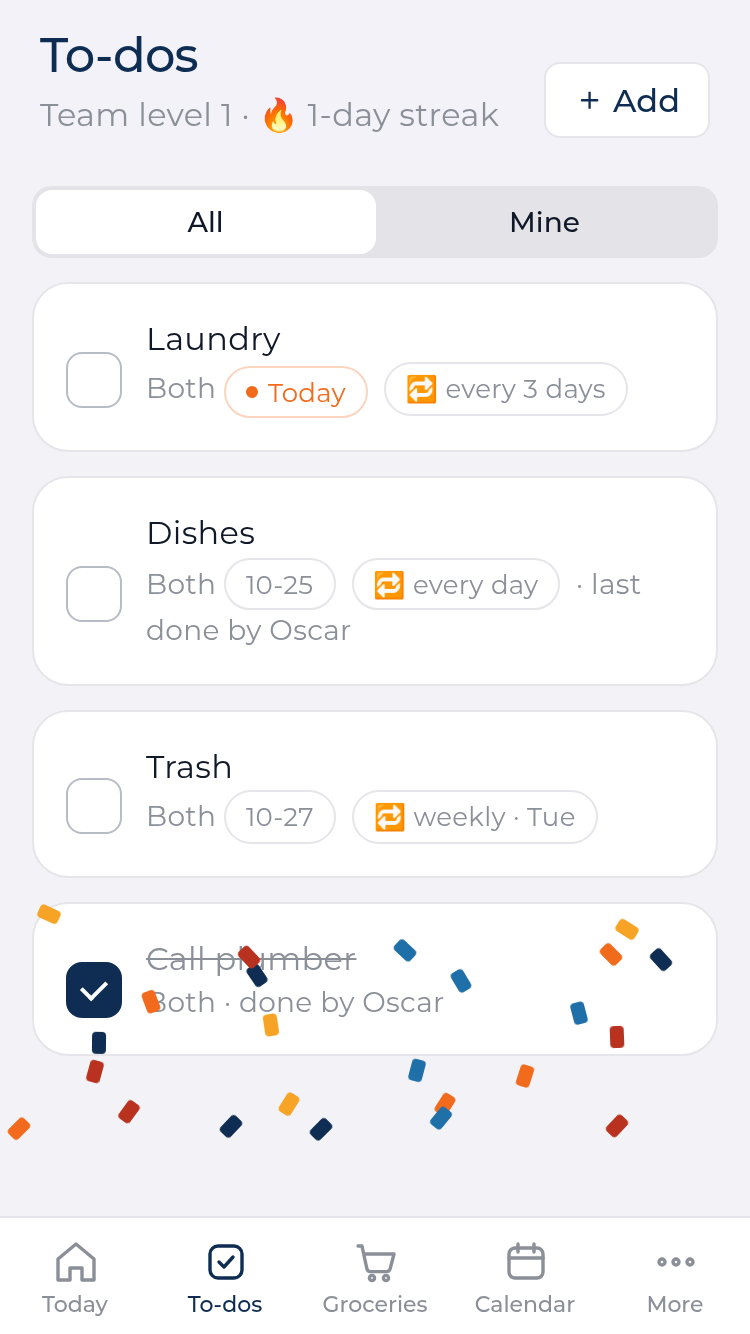
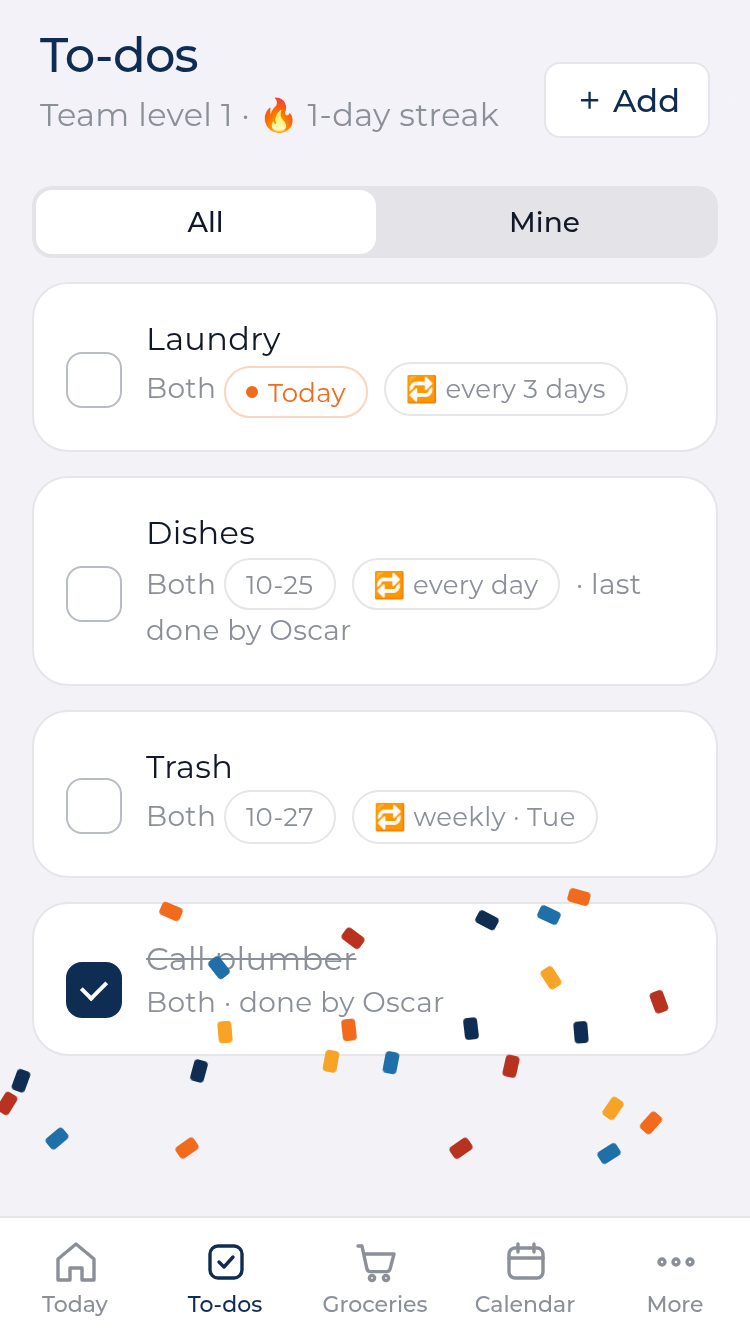
v27: baby logs save reliably (clear validation messages instead of silent no-op, milk/amount-only feedings allowed, close fast, double-tap guard, error toast); remove remaining await-before-UI hangs app-wide

diff --git a/index.html b/index.html
@@ -48,7 +48,7 @@ img.ph{width:100%;max-height:260px;object-fit:cover;border-radius:14px;margin-to
 .tgl{gap:12px}
 #fcat{overflow-x:auto;-webkit-overflow-scrolling:touch;scrollbar-width:none}#fcat button{flex:0 0 auto;padding:7px 12px}
 .sheet>div>div>.row:last-child{position:static;flex-wrap:nowrap;margin-bottom:0}.sheet label{display:block;margin:14px 0 6px;font-size:14px;color:var(--m)}
-.pop{position:fixed;left:50%;top:40%;transform:translate(-50%,-50%);font-size:28px;font-weight:500;color:var(--g);z-index:30;pointer-events:none;animation:pop 1.1s ease-out forwards}
+.toast{position:fixed;left:12px;right:12px;bottom:84px;background:#c62828;color:#fff;padding:12px 14px;border-radius:12px;z-index:60;font-size:15px;box-shadow:0 4px 16px #0003}.shmsg{color:#c62828;font-size:14px;margin-top:10px;min-height:0}.pop{position:fixed;left:50%;top:40%;transform:translate(-50%,-50%);font-size:28px;font-weight:500;color:var(--g);z-index:30;pointer-events:none;animation:pop 1.1s ease-out forwards}
 @keyframes pop{0%{opacity:0;transform:translate(-50%,-30%) scale(.6)}25%{opacity:1;transform:translate(-50%,-50%) scale(1.15)}100%{opacity:0;transform:translate(-50%,-140%) scale(1)}}
 .conf{position:fixed;top:-10px;width:7px;height:11px;border-radius:2px;z-index:29;animation:fall 1.6s linear forwards}
 @keyframes fall{to{transform:translateY(105vh) rotate(720deg)}}
@@ -282,7 +282,10 @@ function vGame(){const t=stats();
  <p class="sub">Signed in as ${esc(auth.currentUser?.email)} · <a href="#" id="so2">Sign out</a></p></div>`}
 // ---------- sheets ----------
 function sheet(html,onSave){$('#sheet').innerHTML=`<div class="sheet"><div>${html}<div class="row" style="margin-top:14px"><button class="s" id="shX">Cancel</button>${onSave?'<button id="shOk">Save</button>':''}</div></div></div>`;
- $('#shX').onclick=close;$('.sheet').onclick=e=>{if(e.target.classList.contains('sheet'))close()};if(onSave)$('#shOk').onclick=async()=>{const b=$('#shOk');if(b.disabled)return;b.disabled=true;let r;try{r=await Promise.race([Promise.resolve(onSave()),new Promise(z=>setTimeout(()=>z('bg'),1500))])}catch(e){alert("Couldn't save: "+(e.message||e));r=false}b.disabled=false;if(r!==false)close()}}
+ $('#shX').onclick=close;$('.sheet').onclick=e=>{if(e.target.classList.contains('sheet'))close()};if(onSave){$('#shOk').parentNode.insertAdjacentHTML('beforebegin','<div class="shmsg" id="shMsg" role="alert"></div>');$('#shOk').onclick=async()=>{const b=$('#shOk');if(!b||b.disabled)return;b.disabled=true;b.textContent='Saving…';$('#shMsg').textContent='';let r,p;
+ try{p=Promise.resolve(onSave());p.catch(e=>toast("Couldn't save: "+(e.message||e)));r=await Promise.race([p,new Promise(z=>setTimeout(()=>z('bg'),1500))])}catch(e){toast("Couldn't save: "+(e.message||e));r=null}
+ if(r===false||typeof r==='string'||r===null){if(b.isConnected){b.disabled=false;b.textContent='Save';if(r!==null)$('#shMsg').textContent=typeof r==='string'?r:'Something is missing. Please fill in the fields above.'}return}close()}}}
+function toast(m){document.querySelectorAll('.toast').forEach(x=>x.remove());const e=document.createElement('div');e.className='toast';e.setAttribute('role','alert');e.textContent=m;e.onclick=()=>e.remove();document.body.append(e);setTimeout(()=>e.remove(),6000)}
 const close=()=>$('#sheet').innerHTML='',val=id=>$('#'+id).value.trim();
 const whoSel=v=>`<select id="fw">${['oscar','wife','both'].map(k=>`<option value="${k}" ${v===k?'selected':''}>${k==='both'?'Both':esc(nm(k))}</option>`).join('')}</select>`;
 function editTodo(t={}){const r=t.rep||null,rk=repKey(r);sheet(`<h2>${t.id?'Edit':'New'} to-do</h2>${t.id?'':`<label>Quick add a repeating chore</label><div style="display:flex;flex-wrap:wrap;gap:6px">${TPL.map((x,i)=>`<button class="s n sm" data-tpl="${i}" style="padding:6px 10px;font-size:13px">🔁 ${esc(x[0])}</button>`).join('')}</div>`}
@@ -671,7 +674,7 @@ const nu=u=>String(u||'ea').trim().toLowerCase().replace(/\.$/,'');
 function conv(q,from,to){from=nu(from);to=nu(to);if(from===to)return q;const a=UG[from],b=UG[to];if(a&&b&&a[0]===b[0])return q*a[1]/b[1];return null}
 function findStock(n){const k=gkey(n);if(!k)return null;const L=S.items;return L.find(i=>gkey(i.name)===k)||L.filter(i=>{const x=gkey(i.name);return x.includes(k)||k.includes(x)}).sort((a,b)=>itemStock(b)-itemStock(a))[0]||null}
 const ucost=i=>i?(unitCost(i)||+i.ucost||0):0;
-const fw=p=>{Promise.resolve(p).catch(e=>alert("Couldn't save: "+(e.message||e)));return p};
+const fw=p=>{Promise.resolve(p).catch(e=>toast("Couldn't save: "+(e.message||e)));return p};
 const r2=n=>Math.round(n*100)/100;
 function cookList(){return `<datalist id="stockdl">${S.items.map(i=>`<option value="${esc(i.name)}">`).join('')}</datalist><datalist id="mealdl">${S.meals.map(m=>`<option value="${esc(m.name)}">`).join('')}</datalist>`}
 function ingRow(g={}){return `<div class="row ingr" style="gap:6px;margin-top:6px"><input class="ign" list="stockdl" value="${esc(g.name||'')}" placeholder="Ingredient" style="flex:3;min-width:0"><input class="igq" type="number" inputmode="decimal" value="${g.qty??''}" placeholder="Qty" style="flex:1;min-width:0"><input class="igu" value="${esc(g.unit||'')}" placeholder="unit" style="flex:1;min-width:0"><button class="d n igx" style="padding:6px 10px">✕</button></div>`}
@@ -802,29 +805,29 @@ function feedSheet(b){let food='',how='',cat='Fruit';const BF=window.BABY_FOODS|
  <div class="row"><div><label>Amount</label><input id="famt" type="number" inputmode="decimal" placeholder="optional"></div><div><label>Unit</label><select id="funit">${['oz','tbsp','jar','pouch','pieces','ml','min'].map(u=>`<option>${u}</option>`).join('')}</select></div><div><label>Time</label><input id="ftime" type="time" value="${nowHM()}"></div></div>
  <label>How did it go?</label><div class="seg" id="fhow">${['loved','ok','refused'].map(h=>`<button data-h="${h}">${h[0].toUpperCase()+h.slice(1)}</button>`).join('')}</div>
  <label>Notes</label><input id="fnote" placeholder="optional"><label class="chkrow"><input type="checkbox" id="fstock" checked><span>Take 1 from baby food stock if we have it</span></label>`,
- async()=>{food=val('ffood');if(!food)return false;const bb=bPick(b),at=atFrom($('#ftime').value),first=!triedBefore(bb,food,at),al=allergenOf(food);
-  await save('blog',{id:uid(),baby:bb.id,kind:'feed',food,amt:+val('famt')||0,unit:$('#funit').value,how,notes:val('fnote'),first,allergen:al,fruit:isFruit(food),at,by:S.me});
-  if($('#fstock').checked){const i=S.items.find(i=>i.baby&&itemStock(i)>0&&(gkey(i.name).includes(gkey(food))||gkey(food).includes(gkey(i.name))));if(i)await logQty(i,'used',1)}
-  celebrate(first?'First time: '+food:'+'+P.feed+' pts')});
+ ()=>{food=val('ffood');if(!food&&(cat==='Milk'||val('famt')))food=cat==='Milk'?'Milk':cat;if(!food){$('#ffood').focus();return 'Pick a food above or type one in the Food box.'}const bb=bPick(b),at=atFrom($('#ftime').value),first=!triedBefore(bb,food,at),al=allergenOf(food),useStock=$('#fstock')&&$('#fstock').checked;
+  const pr=fw(save('blog',{id:uid(),baby:bb.id,kind:'feed',food,amt:+val('famt')||0,unit:$('#funit').value,how,notes:val('fnote'),first,allergen:al,fruit:isFruit(food),at,by:S.me}));
+  if(useStock){try{const i=S.items.find(i=>i.baby&&itemStock(i)>0&&(gkey(i.name).includes(gkey(food))||gkey(food).includes(gkey(i.name))));if(i)fw(logQty(i,'used',1))}catch(e){toast("Saved the feeding, but couldn't update stock: "+(e.message||e))}}
+  setTimeout(()=>celebrate(first?'First time: '+food:'+'+P.feed+' pts'),50);return pr});
  const info=()=>{const f=$('#ffood').value.trim(),bb=bPick(b);if(!f){$('#finfo').textContent='';return}const fi=!triedBefore(bb,f,Date.now()),al=allergenOf(f);
   $('#finfo').innerHTML=(fi?'<span class="pill">First time</span> ':'')+(al?`<span class="pill hi">Common allergen: ${al}</span> Watch for hives, swelling or vomiting for about 2 hours.`:'')};
  const chips=()=>{$('#fchips').innerHTML=(BF[cat]||[]).map(f=>`<button class="mchip n" data-f="${esc(f)}">${esc(f)}</button>`).join('');$('#fchips').querySelectorAll('[data-f]').forEach(x=>x.onclick=()=>{$('#ffood').value=x.dataset.f;if(cat==='Milk')$('#funit').value='oz';else if(cat==='Pouches')$('#funit').value='pouch';info()})};
  $('#fcat').querySelectorAll('button').forEach(x=>x.onclick=()=>{cat=x.dataset.c;$('#fcat').querySelectorAll('button').forEach(y=>y.classList.toggle('on',y===x));chips()});chips();
  $('#fhow').querySelectorAll('button').forEach(x=>x.onclick=()=>{how=x.dataset.h;$('#fhow').querySelectorAll('button').forEach(y=>y.classList.toggle('on',y===x))});$('#ffood').oninput=info}
 function diaperSheet(b){sheet(`<h2>Diaper</h2>${bWho(b)}<label>Time</label><input id="dtime" type="time" value="${nowHM()}"><div class="bgrid" style="margin-top:12px">${['Wet','Dirty','Both'].map(t=>`<button data-dt="${t}">${t}</button>`).join('')}</div>`);
- document.querySelectorAll('[data-dt]').forEach(x=>x.onclick=async()=>{const bb=bPick(b);await save('blog',{id:uid(),baby:bb.id,kind:'diaper',type:x.dataset.dt.toLowerCase(),at:atFrom($('#dtime').value),by:S.me});close();celebrate('+1 pt')})}
+ document.querySelectorAll('[data-dt]').forEach(x=>x.onclick=()=>{if(x.disabled)return;document.querySelectorAll('[data-dt]').forEach(y=>y.disabled=true);const bb=bPick(b),at=atFrom($('#dtime').value);fw(save('blog',{id:uid(),baby:bb.id,kind:'diaper',type:x.dataset.dt.toLowerCase(),at,by:S.me}));close();celebrate('+1 pt')})}
 function medSheet(b){const recent=[...new Set(S.blog.filter(x=>x.kind==='med').sort((x,y)=>y.at-x.at).map(x=>x.name+'|'+(x.dose||'')))].slice(0,5);
  sheet(`<h2>Medicine</h2>${bWho(b)}${recent.length?`<div class="gchips">${recent.map(r=>`<button class="mchip n" data-md="${esc(r)}">${esc(r.replace('|',' '))}</button>`).join('')}</div>`:''}<label>Name</label><input id="mname" placeholder="Infant Tylenol"><div class="row"><div><label>Dose</label><input id="mdose" placeholder="2.5 ml"></div><div><label>Time</label><input id="mtime" type="time" value="${nowHM()}"></div></div><p class="sub">Always follow your pediatrician's dosing.</p>`,
- async()=>{if(!val('mname'))return false;const bb=bPick(b);await save('blog',{id:uid(),baby:bb.id,kind:'med',name:val('mname'),dose:val('mdose'),at:atFrom($('#mtime').value),by:S.me})});
+ ()=>{if(!val('mname')){$('#mname').focus();return 'Type the medicine name (or tap a recent one).'}const bb=bPick(b);return fw(save('blog',{id:uid(),baby:bb.id,kind:'med',name:val('mname'),dose:val('mdose'),at:atFrom($('#mtime').value),by:S.me}))});
  document.querySelectorAll('[data-md]').forEach(x=>x.onclick=()=>{const[n,d]=x.dataset.md.split('|');$('#mname').value=n;$('#mdose').value=d})}
 function reactSheet(b,food=''){const SY=['Rash','Hives','Swelling','Vomiting','Diarrhea','Fussy','Coughing','Other'];const sel=new Set();
  sheet(`<h2>Reaction</h2>${bWho(b)}<label>Food</label><input id="rfood" value="${esc(food)}" placeholder="What did they eat?"><label>Symptoms</label><div class="gchips">${SY.map(s=>`<button class="mchip n" data-sy="${s}">${s}</button>`).join('')}</div>
  <label>How bad?</label><select id="rsev"><option>mild</option><option>moderate</option><option>severe</option></select><div class="row"><div><label>Time</label><input id="rtime" type="time" value="${nowHM()}"></div></div><label>Notes</label><input id="rnote" placeholder="optional">
  <p class="sub">Trouble breathing, swelling of the face or lips, or repeated vomiting: call 911. Tell your pediatrician about any reaction.</p>`,
- async()=>{if(!val('rfood'))return false;const bb=bPick(b);await save('blog',{id:uid(),baby:bb.id,kind:'react',food:val('rfood'),sym:[...sel],sev:$('#rsev').value,notes:val('rnote'),at:atFrom($('#rtime').value),by:S.me})});
+ async()=>{if(!val('rfood'))return 'Type the food it may have been.';const bb=bPick(b);await save('blog',{id:uid(),baby:bb.id,kind:'react',food:val('rfood'),sym:[...sel],sev:$('#rsev').value,notes:val('rnote'),at:atFrom($('#rtime').value),by:S.me})});
  document.querySelectorAll('[data-sy]').forEach(x=>x.onclick=()=>{sel.has(x.dataset.sy)?sel.delete(x.dataset.sy):sel.add(x.dataset.sy);x.classList.toggle('on')})}
-async function toggleSleep(b,nap){const r=running(b);if(r){await save('blog',{...r,end:Date.now()});if(!!r.nap===nap)return celebrate((nap?'Nap ':'Sleep ')+dur(Date.now()-r.start))}
- await save('blog',{id:uid(),baby:b.id,kind:'sleep',nap,start:Date.now(),at:Date.now(),end:null,by:S.me})}
+let slBusy=0;async function toggleSleep(b,nap){if(Date.now()-slBusy<1500)return;slBusy=Date.now();const r=running(b);if(r){fw(save('blog',{...r,end:Date.now()}));if(!!r.nap===nap)return celebrate((nap?'Nap ':'Sleep ')+dur(Date.now()-r.start))}
+ fw(save('blog',{id:uid(),baby:b.id,kind:'sleep',nap,start:Date.now(),at:Date.now(),end:null,by:S.me}));celebrate(nap?'Nap started':'Sleep started')}
 function stockSheet(){sheet(`<h2>Baby food stock</h2><label>Food</label><input id="sf" placeholder="Pear puree, bananas, oatmeal pouches"><label>Type</label><select id="st">${BT.map(([l,d,loc])=>`<option value="${esc(l)}">${esc(l)} · ${d>=60?Math.round(d/30)+' mo':d+' days'} (${LOCN[loc]})</option>`).join('')}</select>
  <div class="row"><div><label>How many</label><input id="sq" type="number" inputmode="decimal" value="1"></div><div><label>Unit</label><input id="su" value="ea"></div><div><label>Add to list at</label><input id="sm" type="number" inputmode="decimal" value="1"></div></div>`,
  async()=>{if(!val('sf'))return false;const t=BT.find(x=>x[0]===$('#st').value);const ex=S.items.find(i=>i.baby&&gkey(i.name)===gkey(val('sf'))&&i.btype===t[0]);
@@ -910,13 +913,13 @@ function pauseSheet(o,over,cover){sheet(`<div class="center" style="padding:6px 
 function waitCheck(w){sheet(`<div class="center"><div style="font-size:40px">🤔</div><h2>Still want it?</h2><p><b>${esc(w.name)}</b> · ${usd(+w.price)}</p><p class="sub">You waited ${Math.round((Date.now()-w.at)/864e5)} days. Either answer is fine.</p></div>
  <button id="wcSkip" style="width:100%">Skip it, save ${usd(+w.price)}</button><button class="s" id="wcBuy" style="width:100%;margin-top:8px">Yes, buy it</button>`,null);
  $('#wcSkip').onclick=async()=>{$('#sheet').innerHTML='';const pts=Math.min(100,Math.max(10,Math.round(+w.price/2)));await save('wait',{...w,status:'skipped',decidedAt:Date.now(),ym:chiYm()});await plog('saved',pts,{name:w.name,amt:+w.price});celebrate('🌱 Saved '+usd(+w.price)+' · +'+pts+' pts');if(pgOf(w.who).goals.some(g=>!pgDone(g)))setTimeout(()=>pgMoveSheet(w.who,+w.price,'Put this toward my goal?','skip'),900)};
- $('#wcBuy').onclick=async()=>{await save('wait',{...w,status:'bought',decidedAt:Date.now()});buySheet({amt:w.price,cat:w.cat,note:w.name,wid:w.id,force:true})}}
+ $('#wcBuy').onclick=async()=>{fw(save('wait',{...w,status:'bought',decidedAt:Date.now()}));buySheet({amt:w.price,cat:w.cat,note:w.name,wid:w.id,force:true})}}
 function bindSpend(on){on('[data-spk]',e=>{S.spk=e.dataset.spk;R()});on('#pbOn',()=>pbSet({on:true}));on('#pbOff',()=>{if(confirm('Turn off your personal budget? Your history is kept.'))pbSet({on:false})});
  on('#pbSave',()=>{const amt=+val('pbAmt');if(!amt)return;const caps={};$('#main').querySelectorAll('[data-cap]').forEach(i=>caps[i.dataset.cap]=+i.value||0);const thr=$('#main').querySelector('#pbThr');pbSet({on:true,amt,caps,...(thr?{thr:+thr.value||100}:{})});celebrate('✓ Saved')});
  on('[data-pbt]',()=>pbSet({priv:!pbOf(S.me).priv}));on('[data-pbn]',e=>{const k=e.dataset.pbn;pbSet({n:{[k]:!pbOf(S.me).n[k]}})});
  on('#spBuy',()=>buySheet());on('#spWaitAdd',()=>waitAdd());on('[data-wcheck]',e=>waitCheck(S.wait.find(w=>w.id===e.dataset.wcheck)));
  on('[data-wdel]',e=>{if(confirm('Remove from wait list?'))del('wait',e.dataset.wdel)});on('[data-spdel]',e=>{if(confirm('Delete this purchase?'))del('spend',e.dataset.spdel)});
- on('#spPaid',async()=>{if(!confirm('Mark all business purchases as paid back?'))return;for(const x of S.spend.filter(x=>x.who===S.me&&x.biz&&x.reimb&&!x.paid))await save('spend',{...x,paid:Date.now()});celebrate('💵 Paid back')})}
+ on('#spPaid',async()=>{if(!confirm('Mark all business purchases as paid back?'))return;for(const x of S.spend.filter(x=>x.who===S.me&&x.biz&&x.reimb&&!x.paid))fw(save('spend',{...x,paid:Date.now()}));celebrate('💵 Paid back')})}
 // ---------- Household budget (income, bills, limits, fun money, savings goal) ----------
 const HCATS=[['groceries','Groceries','🛒'],['baby','Baby','🍼'],['gas','Gas','⛽'],['eat','Eating out','🍔'],['house','Household','🏠'],['health','Health','💊'],['gifts','Gifts','🎁'],['other','Other','📦']];
 const BCATS=[['rent','Rent / mortgage','🏡'],['electric','Electric','⚡'],['water','Water','🚰'],['internet','Internet','📶'],['phones','Phones','📱'],['car','Car payment','🚗'],['insurance','Insurance','🛡'],['subs','Subscriptions','📺'],['childcare','Childcare','🧸'],['cards','Credit cards','💳'],['other','Other','📄']];
@@ -981,7 +984,7 @@ function vWizard(){const h=HB(),st=S.wz||1,inc=h.income||[],D=S.wzd||{},lim={...
  o+=`<div class="row" style="gap:10px">${st>1?'<button class="s" id="wzBack" style="flex:1">Back</button>':''}<button id="wzNext" style="flex:2">${st<3?'Next':'Finish'}</button></div>${h.setup?'<button class="s" id="wzCancel" style="width:100%;margin-top:10px">Cancel, keep my budget as is</button>':''}`;return o}
 // ---------- Personal savings goals (per person) ----------
 const pgOf=k=>{const v=(S.meta.pg||{})[k];if(!v&&k==='oscar')return{goals:[{id:'laptop',name:'Laptop for Arpero Woodworks',target:0,saved:0,date:''}],sweep:'',gm:{},seed:1};return{goals:[],sweep:'',gm:{},...(v||{}),goals:(v&&v.goals)||[]}};
-const pgPut=(k,v)=>{const c=pgOf(k);delete c.seed;const w=F.setDoc(dref('meta','settings'),{pg:{[k]:{...c,...v}}},{merge:true});w.catch(e=>alert("Couldn't save goal: "+(e.message||e)));return Promise.race([w,new Promise(z=>setTimeout(z,300))])};
+const pgPut=(k,v)=>{const c=pgOf(k);delete c.seed;const w=F.setDoc(dref('meta','settings'),{pg:{[k]:{...c,...v}}},{merge:true});w.catch(e=>toast("Couldn't save goal: "+(e.message||e)));return Promise.race([w,new Promise(z=>setTimeout(z,300))])};
 const TERMS=[['short','Short-term','under 1 year'],['medium','Medium-term','1–3 years'],['long','Long-term','3+ years']],termOf=g=>TERMS.some(t=>t[0]===g.term)?g.term:'short',ownNm=k=>k==='both'?'Both':nm(k),OWN=['oscar','wife','both'];
 const pgDone=g=>+g.target>0&&(+g.saved||0)>=+g.target;
 const pgBar=g=>{const p=+g.target?Math.min(100,(+g.saved||0)/g.target*100):0;return `<div class="bar" style="margin-top:6px"><i style="width:${p}%;background:${p>=100?'#2e7d4f':'#0f2d52'}"></i></div>`};
@@ -1105,10 +1108,10 @@ function bindExtra(on){bindSpend(on);bindHB(on);
  on('#setB',()=>sheet(`<h2>Monthly grocery budget</h2><input id="bb" type="number" inputmode="decimal" value="${S.meta.budget||''}" placeholder="800">`,()=>F.setDoc(dref('meta','settings'),{budget:+val('bb')||0},{merge:true})));
  m_on();function m_on(){$('#main').querySelectorAll('[data-plan]').forEach(s=>s.onchange=()=>F.setDoc(dref('meta','settings'),{plan:{[s.dataset.plan]:s.value}},{merge:true}))}
  on('[data-cook]',async e=>{const m=S.meals.find(x=>x.id===e.dataset.cook);for(const g of m.ings||[]){const i=has(g);if(i)await logQty(i,'used',1)}await plog('cook',P.cook,{name:m.name});celebrate(P.cook)});
- on('[data-miss]',async e=>{const m=S.meals.find(x=>x.id===e.dataset.miss);for(const g of mealScore(m).miss)if(!S.shop.some(x=>!x.done&&x.name.toLowerCase()===g.toLowerCase()))await save('shop',{id:uid(),name:g,note:'for '+m.name,by:S.me,at:Date.now(),done:false});alert('Added to the shopping list')});
+ on('[data-miss]',async e=>{const m=S.meals.find(x=>x.id===e.dataset.miss);for(const g of mealScore(m).miss)if(!S.shop.some(x=>!x.done&&x.name.toLowerCase()===g.toLowerCase()))fw(save('shop',{id:uid(),name:g,note:'for '+m.name,by:S.me,at:Date.now(),done:false}));celebrate('Added to the shopping list')});
  on('[data-meal]',e=>editMeal(S.meals.find(x=>x.id===e.dataset.meal)));on('#newMeal',()=>editMeal());
  on('[data-chore]',e=>editChore(S.chores.find(x=>x.id===e.dataset.chore)));on('#newChore',()=>editChore());
- on('[data-chdone]',async e=>{const c=S.chores.find(x=>x.id===e.dataset.chdone);await save('chores',{...c,next:addDays(today(),c.every),turn:c.turn==='oscar'?'wife':'oscar'});await plog('chore',c.pts,{name:c.name});celebrate(c.pts)});
+ on('[data-chdone]',async e=>{const c=S.chores.find(x=>x.id===e.dataset.chdone);fw(save('chores',{...c,next:addDays(today(),c.every),turn:c.turn==='oscar'?'wife':'oscar'}));fw(plog('chore',c.pts,{name:c.name}));celebrate(c.pts)});
  on('#newReward',()=>sheet(`<h2>New prize</h2><label>Prize</label><input id="rn" placeholder="Pick the movie"><label>Cost (points)</label><input id="rc" type="number" inputmode="numeric" value="100"><label>Type</label><select id="rk"><option value="t">Together</option><option value="p:oscar">Personal for ${esc(nm('oscar'))}</option><option value="p:wife">Personal for ${esc(nm('wife'))}</option><option value="p">Personal (either of us)</option></select>`,()=>{if(!val('rn'))return false;save('rewards',{id:uid(),name:val('rn'),cost:+val('rc')||100,kind:$('#rk').value[0],who:$('#rk').value.split(':')[1]||null,custom:true})}));
  on('[data-redeem]',e=>{const r=S.rewards.find(x=>x.id===e.dataset.redeem);if(r&&stats().bal>=r.cost)redeemR(r)});on('[data-rtier]',e=>{S.rtier=e.dataset.rtier;R()});
  on('[data-thx]',e=>sendThanks(e.dataset.thx,e.dataset.txt));on('#nudgeX',()=>{localStorage.nudgeShown='closed';R()});on('#recapX',()=>{localStorage.recapSeen=String(+weekStart(Date.now()));R()});on('#pickMonth',pickMonth);
@@ -1120,7 +1123,7 @@ function bindExtra(on){bindSpend(on);bindHB(on);
  on('[data-rdel]',e=>del('rewards',e.dataset.rdel));
  on('#seedM',async()=>{for(const [n,d] of MDEF)await save('maint',{id:uid(),name:n,every:d,last:''})});
  on('[data-mt]',e=>editMaint(S.maint.find(x=>x.id===e.dataset.mt)));on('#newMaint',()=>editMaint());
- on('[data-mdone]',async e=>{const m=S.maint.find(x=>x.id===e.dataset.mdone);await save('maint',{...m,last:today()});await plog('maint',P.maint,{name:m.name});celebrate(P.maint)});
+ on('[data-mdone]',async e=>{const m=S.maint.find(x=>x.id===e.dataset.mdone);fw(save('maint',{...m,last:today()}));fw(plog('maint',P.maint,{name:m.name}));celebrate(P.maint)});
  on('#newIdea',()=>sheet(`<h2>Date idea</h2><input id="in" placeholder="Picnic at Cypress Creek park"><div class="row"><select id="ic"><option value="$">$ cheap/free</option><option value="$$">$$</option><option value="$$$">$$$ splurge</option></select><select id="iw"><option value="out">🚗 Out</option><option value="home">🏠 At home</option></select></div>`,()=>{if(!val('in'))return false;save('ideas',{id:uid(),text:val('in'),cost:$('#ic')?.value||'',where:$('#iw')?.value||'',done:false})}));
  on('[data-idone]',e=>save('ideas',{...S.ideas.find(x=>x.id===e.dataset.idone),done:true}));on('[data-idel]',e=>del('ideas',e.dataset.idel));
  on('[data-if]',e=>{S.ifl=e.dataset.if;R()});on('#pickIdea',()=>{const fl=S.ifl||'all',L=S.ideas.filter(i=>!i.done&&(fl==='all'||i.cost===fl||i.where===fl));if(!L.length){$('#pick').textContent='Add some ideas first 💡';return}let n=0;const t=setInterval(()=>{if(!$('#pick'))return clearInterval(t);$('#pick').textContent=L[Math.floor(Math.random()*L.length)].text;if(++n>12){clearInterval(t);celebrate('💑')}},90)});

diff --git a/sw.js b/sw.js
@@ -1,4 +1,4 @@
-const C='arpero-family-v26',F=['./','index.html','parse.js','manifest.json','icon-180.png','icon-192.png','icon-512.png','apple-touch-icon.png','logo.png','cal.js','food-data.js','guide.js','rewards-data.js','favicon-32.png','emblem.jpg','fonts/montserrat-latin.woff2'];
+const C='arpero-family-v27',F=['./','index.html','parse.js','manifest.json','icon-180.png','icon-192.png','icon-512.png','apple-touch-icon.png','logo.png','cal.js','food-data.js','guide.js','rewards-data.js','favicon-32.png','emblem.jpg','fonts/montserrat-latin.woff2'];
 self.addEventListener('install',e=>{e.waitUntil(caches.open(C).then(c=>c.addAll(F)));self.skipWaiting()});
 self.addEventListener('activate',e=>e.waitUntil(caches.keys().then(k=>Promise.all(k.filter(x=>x!==C).map(x=>caches.delete(x)))).then(()=>self.clients.claim())));
 self.addEventListener('fetch',e=>{if(e.request.method!=='GET'||new URL(e.request.url).origin!==location.origin)return;e.respondWith(fetch(e.request).then(r=>{const c=r.clone();caches.open(C).then(x=>x.put(e.request,c));return r}).catch(()=>caches.match(e.request,{ignoreSearch:true})))});
